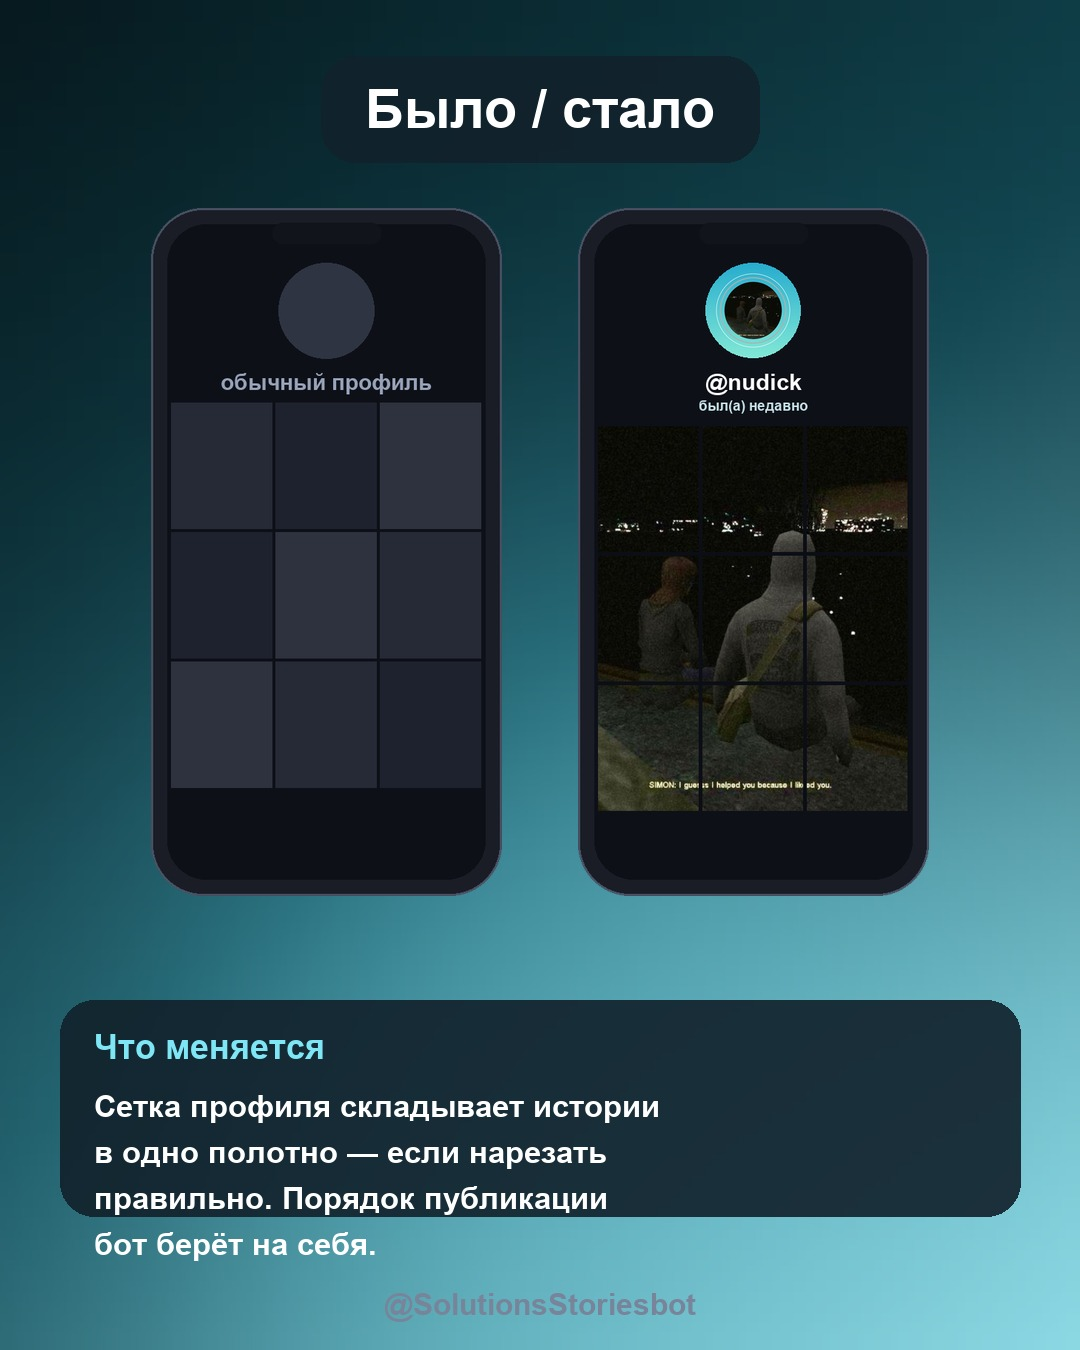
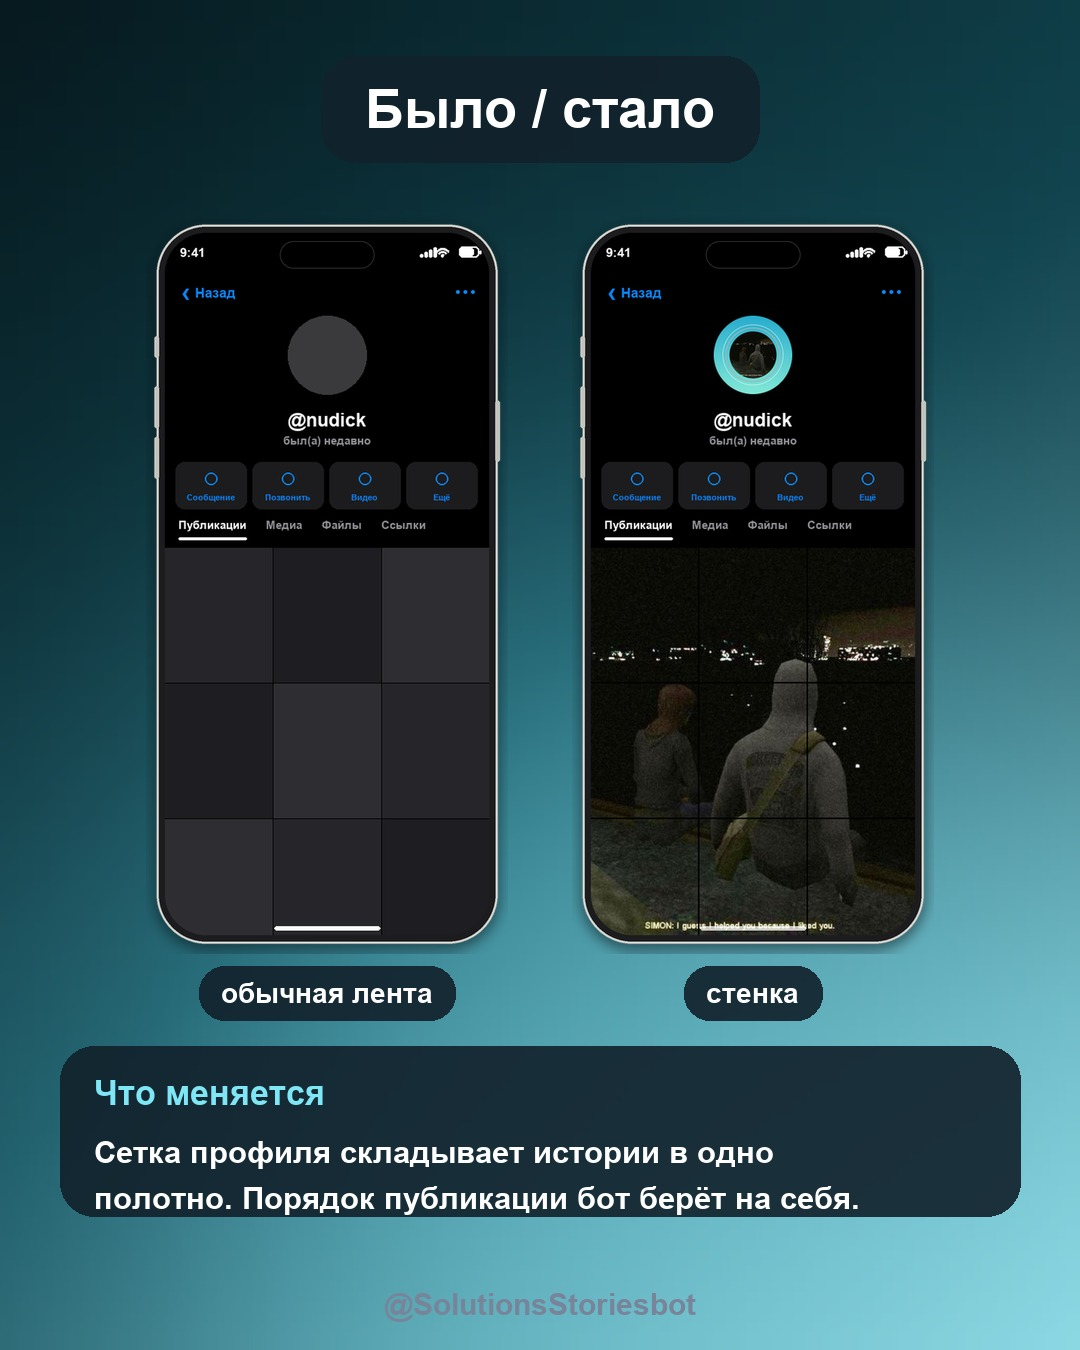
Настоящий iPhone на витрине вместо скруглённого прямоугольника
Корпус собран по реальным числам: экран 430×932 pt, пропорция 2.167,
радиус 14.5% ширины, Dynamic Island 125×36 pt. Именно пропорция и
островок опознаются глазом, а не марка на корпусе — поэтому раньше
телефон и читался как макет.

Островку добавлен тёмно-серый кант: на чёрном интерфейсе чёрная пилюля
исчезала полностью.

На экране теперь интерфейс, а не заглушка: статус-бар с сетью и
батареей, «‹ Назад», аватарка, ряд действий, вкладки. Сетка уходит за
нижний край — аккуратно уместившаяся сразу выдаёт макет.

Changed region(s): [[0.0306, 0.1556, 0.9472, 0.9333]]

diff --git a/make_assets.py b/make_assets.py
@@ -156,56 +156,206 @@ def wall_grid(source: bytes, parts: int, box_w: int, gap: int,
     return grid
 
 
-def phone(inner: Image.Image, scale: float = 1.0) -> Image.Image:
-    """Рамка телефона вокруг готового экрана."""
-    pad = round(22 * scale)
-    radius = round(70 * scale)
-    body = Image.new("RGBA", (inner.width + pad * 2, inner.height + pad * 2), (0, 0, 0, 0))
-    draw = ImageDraw.Draw(body)
-    draw.rounded_rectangle(
-        (0, 0, body.width - 1, body.height - 1), radius=radius, fill=(26, 29, 38, 255),
-        outline=(70, 78, 96, 255), width=max(2, round(3 * scale)),
+#: Логический экран iPhone 15/16 Pro Max — 430×932 pt. Ровно эти числа,
+#: а не «примерно вытянутый прямоугольник»: пропорция 2.167 и есть то,
+#: по чему глаз узнаёт айфон, а не марку на корпусе.
+SCREEN_W, SCREEN_H = 430, 932
+
+#: Рисуем корпус вдвое крупнее и уменьшаем: радиусы у айфона большие, и
+#: без сглаживания углы выходят ступеньками.
+PHONE_SS = 2
+
+
+def phone(inner: Image.Image) -> Image.Image:
+    """Корпус iPhone: титановая рамка, Dynamic Island, боковые кнопки."""
+    ss = PHONE_SS
+    bezel = 11 * ss
+    rail = 3 * ss
+    screen = inner.resize((inner.width * ss, inner.height * ss), Image.LANCZOS)
+
+    body_w = screen.width + bezel * 2
+    body_h = screen.height + bezel * 2
+    pad = 14 * ss
+    canvas = Image.new("RGBA", (body_w + pad * 2, body_h + pad * 2), (0, 0, 0, 0))
+
+    #: Тень отдельным слоем под корпусом: без неё телефон выглядит
+    #: наклейкой на фоне, а не предметом перед ним.
+    shadow = Image.new("RGBA", canvas.size, (0, 0, 0, 0))
+    ImageDraw.Draw(shadow).rounded_rectangle(
+        (pad, pad + 6 * ss, pad + body_w, pad + body_h + 6 * ss),
+        radius=round(body_w * 0.145), fill=(0, 20, 28, 150),
     )
-    mask = Image.new("L", inner.size, 0)
+    canvas.alpha_composite(shadow.filter(ImageFilter.GaussianBlur(9 * ss)))
+
+    draw = ImageDraw.Draw(canvas)
+    box = (pad, pad, pad + body_w, pad + body_h)
+    radius = round(body_w * 0.145)
+    #: Титан: светлая рамка с тёмной внутренней кромкой. Один плоский
+    #: серый читается как пластик.
+    draw.rounded_rectangle(box, radius=radius, fill=(206, 205, 200, 255))
+    draw.rounded_rectangle(
+        (box[0] + rail, box[1] + rail, box[2] - rail, box[3] - rail),
+        radius=radius - rail, fill=(28, 28, 30, 255),
+    )
+
+    mask = Image.new("L", screen.size, 0)
     ImageDraw.Draw(mask).rounded_rectangle(
-        (0, 0, inner.width - 1, inner.height - 1), radius=round(radius * 0.75), fill=255
+        (0, 0, screen.width - 1, screen.height - 1),
+        radius=round(body_w * 0.145) - bezel, fill=255,
     )
-    body.paste(inner, (pad, pad), mask)
-    notch_w, notch_h = round(inner.width * 0.34), round(26 * scale)
+    canvas.paste(screen, (pad + bezel, pad + bezel), mask)
+
+    #: Dynamic Island — 125×36 pt при ширине 430 pt.
+    island_w, island_h = round(screen.width * 0.291), round(screen.width * 0.084)
+    island_x = pad + bezel + (screen.width - island_w) // 2
+    island_y = pad + bezel + round(screen.width * 0.026)
+    #: Тонкий тёмно-серый кант: на чёрном интерфейсе чёрная пилюля
+    #: исчезает, а это главная деталь, по которой узнают айфон.
     draw.rounded_rectangle(
-        (body.width / 2 - notch_w / 2, pad - round(2 * scale),
-         body.width / 2 + notch_w / 2, pad + notch_h),
-        radius=notch_h // 2, fill=(18, 20, 27, 255),
+        (island_x, island_y, island_x + island_w, island_y + island_h),
+        radius=island_h // 2, fill=(0, 0, 0, 255), outline=(52, 52, 56, 255), width=ss,
     )
-    return body
+
+    #: Кнопки выступают за корпус на волосок — так силуэт перестаёт быть
+    #: голым прямоугольником.
+    btn = (196, 195, 190, 255)
+    for top, height in ((0.155, 0.030), (0.225, 0.058), (0.295, 0.058)):
+        y0 = pad + round(body_h * top)
+        draw.rounded_rectangle(
+            (box[0] - rail, y0, box[0] + rail, y0 + round(body_h * height)),
+            radius=rail, fill=btn,
+        )
+    y0 = pad + round(body_h * 0.245)
+    draw.rounded_rectangle(
+        (box[2] - rail, y0, box[2] + rail, y0 + round(body_h * 0.085)), radius=rail, fill=btn
+    )
+
+    return canvas.resize((canvas.width // ss, canvas.height // ss), Image.LANCZOS)
+
+
+def status_bar(draw: ImageDraw.ImageDraw, width: int, colour=(255, 255, 255)) -> None:
+    """Время слева, сеть/Wi-Fi/батарея справа — как на скриншоте."""
+    draw.text((width * 0.085, 26), "9:41", font=font(17), fill=colour, anchor="mm")
+
+    x = width - 92
+    for i in range(4):
+        h = 4 + i * 3
+        draw.rounded_rectangle((x + i * 6, 32 - h, x + i * 6 + 4, 32), radius=1, fill=colour)
+
+    wx, wy = width - 62, 31
+    for i, r in enumerate((11, 7, 3)):
+        draw.arc((wx - r, wy - r, wx + r, wy + r), 215, 325,
+                 fill=colour, width=3 - (i == 2))
+    draw.ellipse((wx - 1.6, wy - 1.6, wx + 1.6, wy + 1.6), fill=colour)
+
+    bx = width - 40
+    draw.rounded_rectangle((bx, 18, bx + 26, 32), radius=5, outline=colour, width=2)
+    draw.rounded_rectangle((bx + 2, 20, bx + 19, 30), radius=3, fill=colour)
+    draw.rounded_rectangle((bx + 27, 23, bx + 29, 28), radius=1, fill=colour)
+
+
+#: Цвета тёмной темы Telegram на iOS.
+IOS_BG = (0, 0, 0)
+IOS_CARD = (28, 28, 30)
+IOS_GRAY = (142, 142, 147)
+IOS_BLUE = (10, 132, 255)
+
+
+def _profile_chrome(screen: Image.Image, name: str, avatar: Image.Image | None) -> int:
+    """Шапка профиля Telegram: навигация, аватарка, имя, ряд кнопок.
+
+    Возвращает Y, с которого начинается сетка публикаций.
+    """
+    width = screen.width
+    draw = ImageDraw.Draw(screen, "RGBA")
+    status_bar(draw, width)
+
+    #: Навигация: «‹ Назад» слева, «…» справа — без них экран не
+    #: читается как экран приложения.
+    draw.text((22, 78), "‹", font=font(34), fill=IOS_BLUE, anchor="lm")
+    draw.text((40, 79), "Назад", font=font(18), fill=IOS_BLUE, anchor="lm")
+    for i in range(3):
+        draw.ellipse((width - 44 + i * 10, 76, width - 40 + i * 10, 80), fill=IOS_BLUE)
+
+    avatar_d = 104
+    top = 110
+    if avatar is not None:
+        plate = avatar.convert("RGB").resize((avatar_d, avatar_d), Image.LANCZOS)
+        mask = Image.new("L", (avatar_d * 4, avatar_d * 4), 0)
+        ImageDraw.Draw(mask).ellipse((0, 0, avatar_d * 4 - 1, avatar_d * 4 - 1), fill=255)
+        screen.paste(plate, ((width - avatar_d) // 2, top),
+                     mask.resize((avatar_d, avatar_d), Image.LANCZOS))
+    else:
+        draw.ellipse(((width - avatar_d) // 2, top,
+                      (width + avatar_d) // 2, top + avatar_d), fill=(58, 58, 60))
+
+    name_y = top + avatar_d + 34
+    draw.text((width / 2, name_y), name, font=font(25), fill=INK, anchor="mm")
+    draw.text((width / 2, name_y + 28), "был(а) недавно", font=font(15),
+              fill=IOS_GRAY, anchor="mm")
+
+    #: Ряд действий — четыре карточки, как в профиле на iOS.
+    row_y = name_y + 56
+    labels = ("Сообщение", "Позвонить", "Видео", "Ещё")
+    pad, gap = 14, 8
+    cell = (width - pad * 2 - gap * 3) // 4
+    for i, label in enumerate(labels):
+        x = pad + i * (cell + gap)
+        draw.rounded_rectangle((x, row_y, x + cell, row_y + 62), radius=12, fill=IOS_CARD)
+        cx = x + cell / 2
+        draw.ellipse((cx - 8, row_y + 14, cx + 8, row_y + 30), outline=IOS_BLUE, width=2)
+        draw.text((cx, row_y + 47), label, font=font(11), fill=IOS_BLUE, anchor="mm")
+
+    #: Вкладки. Активны «Публикации» — именно там и живёт стенка.
+    tabs_y = row_y + 84
+    tabs = ("Публикации", "Медиа", "Файлы", "Ссылки")
+    x = 18
+    for i, tab in enumerate(tabs):
+        w = draw.textlength(tab, font=font(15))
+        draw.text((x, tabs_y), tab, font=font(15),
+                  fill=INK if i == 0 else IOS_GRAY, anchor="lm")
+        if i == 0:
+            draw.rounded_rectangle((x, tabs_y + 16, x + w, tabs_y + 19), radius=2, fill=INK)
+        x += w + 26
+    return tabs_y + 30
 
 
 def profile_screen(source: bytes, parts: int, width: int, name: str,
                    frame_index: int | None = None, colour_index: int = 4) -> Image.Image:
-    """Экран профиля: аватарка, имя и стенка под ними."""
-    height = round(width * 2.06)
-    screen = Image.new("RGB", (width, height), (14, 16, 24))
+    """Скриншот профиля со стенкой — как его снял бы владелец."""
+    screen = Image.new("RGB", (SCREEN_W, SCREEN_H), IOS_BG)
+    avatar = Image.open(io.BytesIO(frames_mod.apply(source, colour_index,
+                                                    24 if frame_index is None else frame_index)))
+    grid_top = _profile_chrome(screen, name, avatar)
+
+    gap = 2
+    grid = wall_grid(source, parts, SCREEN_W, gap, seam=IOS_BG)
+    #: Сетка уходит за нижний край — так и выглядит настоящий скриншот,
+    #: аккуратно уместившаяся сетка сразу читается как макет.
+    screen.paste(grid, (0, grid_top))
+
+    draw = ImageDraw.Draw(screen, "RGBA")
+    draw.rounded_rectangle((SCREEN_W / 2 - 70, SCREEN_H - 12, SCREEN_W / 2 + 70, SCREEN_H - 7),
+                           radius=3, fill=(255, 255, 255, 190))
+    return screen
+
+
+def blank_screen(name: str = "@nudick") -> Image.Image:
+    """Тот же профиль, но с обычной лентой — половина карточки «было/стало»."""
+    screen = Image.new("RGB", (SCREEN_W, SCREEN_H), IOS_BG)
+    grid_top = _profile_chrome(screen, name, None)
     draw = ImageDraw.Draw(screen)
-
-    avatar_d = round(width * 0.30)
-    if frame_index is None:
-        avatar = Image.open(io.BytesIO(frames_mod.apply(source, colour_index, 24)))
-    else:
-        avatar = Image.open(io.BytesIO(frames_mod.apply(source, colour_index, frame_index)))
-    avatar = avatar.convert("RGB").resize((avatar_d, avatar_d), Image.LANCZOS)
-    circle = Image.new("L", (avatar_d, avatar_d), 0)
-    ImageDraw.Draw(circle).ellipse((0, 0, avatar_d - 1, avatar_d - 1), fill=255)
-    screen.paste(avatar, ((width - avatar_d) // 2, round(width * 0.12)), circle)
-
-    name_y = round(width * 0.12) + avatar_d + round(width * 0.075)
-    draw.text((width / 2, name_y), name, font=font(round(width * 0.072)), fill=INK, anchor="mm")
-    draw.text((width / 2, name_y + round(width * 0.075)), "был(а) недавно",
-              font=font(round(width * 0.045)), fill=DIM, anchor="mm")
-
-    gap = max(2, round(width * 0.012))
-    box_w = width - gap * 2
-    grid = wall_grid(source, parts, box_w, gap)
-    screen.paste(grid, (gap, name_y + round(width * 0.14)))
+    gap = 2
+    cell = (SCREEN_W - gap * 2) // 3
+    cell_h = round(cell * slicer.CELL_H / slicer.CELL_W)
+    tones = [(38, 38, 42), (30, 30, 34), (46, 46, 50)]
+    for row in range(4):
+        for col in range(3):
+            x = col * (cell + gap)
+            y = grid_top + row * (cell_h + gap)
+            draw.rectangle((x, y, x + cell, y + cell_h), fill=tones[(row + col) % 3])
+    draw.rounded_rectangle((SCREEN_W / 2 - 70, SCREEN_H - 12, SCREEN_W / 2 + 70, SCREEN_H - 7),
+                           radius=3, fill=(255, 255, 255, 190))
     return screen
 
 
@@ -320,10 +470,10 @@ def make_welcome(source: bytes) -> Image.Image:
     draw = ImageDraw.Draw(card, "RGBA")
     title_plate(draw, "Стенка из сторис", top=44, size=58)
 
-    screen = profile_screen(source, 9, 430, OWNER)
-    shell = phone(screen)
-    shell = shell.resize((round(shell.width * 0.94), round(shell.height * 0.94)), Image.LANCZOS)
-    card.paste(shell, ((W - shell.width) // 2, 196), shell)
+    shell = phone(profile_screen(source, 9, SCREEN_W, OWNER))
+    scale = 920 / shell.height
+    shell = shell.resize((round(shell.width * scale), round(shell.height * scale)), Image.LANCZOS)
+    card.paste(shell, ((W - shell.width) // 2, 182), shell)
 
     draw = ImageDraw.Draw(card, "RGBA")
     #: Подпись в плашке, а не поверх градиента: внизу фон самый светлый,
@@ -345,47 +495,33 @@ def make_about(source: bytes) -> Image.Image:
     draw = ImageDraw.Draw(card, "RGBA")
     title_plate(draw, "Было / стало")
 
-    plain = Image.new("RGB", (430, round(430 * 2.06)), (14, 16, 24))
-    pdraw = ImageDraw.Draw(plain)
-    avatar_d = round(430 * 0.30)
-    pdraw.ellipse(
-        ((430 - avatar_d) // 2, round(430 * 0.12),
-         (430 - avatar_d) // 2 + avatar_d, round(430 * 0.12) + avatar_d),
-        fill=(46, 52, 66),
-    )
-    pdraw.text((215, round(430 * 0.12) + avatar_d + 32), "обычный профиль",
-               font=font(30), fill=(150, 162, 184), anchor="mm")
-    gap, box = 5, 420
-    cell = (box - gap * 2) // 3
-    cell_h = round(cell * slicer.CELL_H / slicer.CELL_W)
-    top = round(430 * 0.12) + avatar_d + 60
-    tones = [(38, 42, 54), (30, 34, 46), (46, 50, 62)]
-    for row in range(3):
-        for col in range(3):
-            pdraw.rectangle(
-                (gap + col * (cell + gap), top + row * (cell_h + gap),
-                 gap + col * (cell + gap) + cell, top + row * (cell_h + gap) + cell_h),
-                fill=tones[(row + col) % 3],
-            )
-
     shells = []
-    for inner in (plain, profile_screen(source, 9, 430, OWNER)):
+    for inner in (blank_screen(OWNER), profile_screen(source, 9, SCREEN_W, OWNER)):
         shell = phone(inner)
+        scale = 740 / shell.height
         shells.append(
-            shell.resize((round(shell.width * 0.74), round(shell.height * 0.74)), Image.LANCZOS)
+            shell.resize((round(shell.width * scale), round(shell.height * scale)), Image.LANCZOS)
         )
-    span = shells[0].width * 2 + 76
+    gap = 64
+    span = shells[0].width * 2 + gap
     for index, shell in enumerate(shells):
-        card.paste(shell, ((W - span) // 2 + index * (shell.width + 76), 208), shell)
+        card.paste(shell, ((W - span) // 2 + index * (shell.width + gap), 214), shell)
 
     draw = ImageDraw.Draw(card, "RGBA")
+    for index, label in enumerate(("обычная лента", "стенка")):
+        cx = (W - span) // 2 + index * (shells[0].width + gap) + shells[0].width / 2
+        w = draw.textlength(label, font=font(28))
+        draw.rounded_rectangle((cx - w / 2 - 22, 966, cx + w / 2 + 22, 1020),
+                               radius=26, fill=PLATE + (PLATE_ALPHA,))
+        draw.text((cx, 993), label, font=font(28), fill=INK, anchor="mm")
+
+    #: Две строки, а не четыре: плашка кончается на 1216, четвёртая
+    #: строка ложилась уже на градиент под ней.
     chip(
-        draw, (60, 1000, W - 60, 1216), "Что меняется",
+        draw, (60, 1046, W - 60, 1216), "Что меняется",
         [
-            "Сетка профиля складывает истории",
-            "в одно полотно — если нарезать",
-            "правильно. Порядок публикации",
-            "бот берёт на себя.",
+            "Сетка профиля складывает истории в одно",
+            "полотно. Порядок публикации бот берёт на себя.",
         ],
     )
     footer(card)
